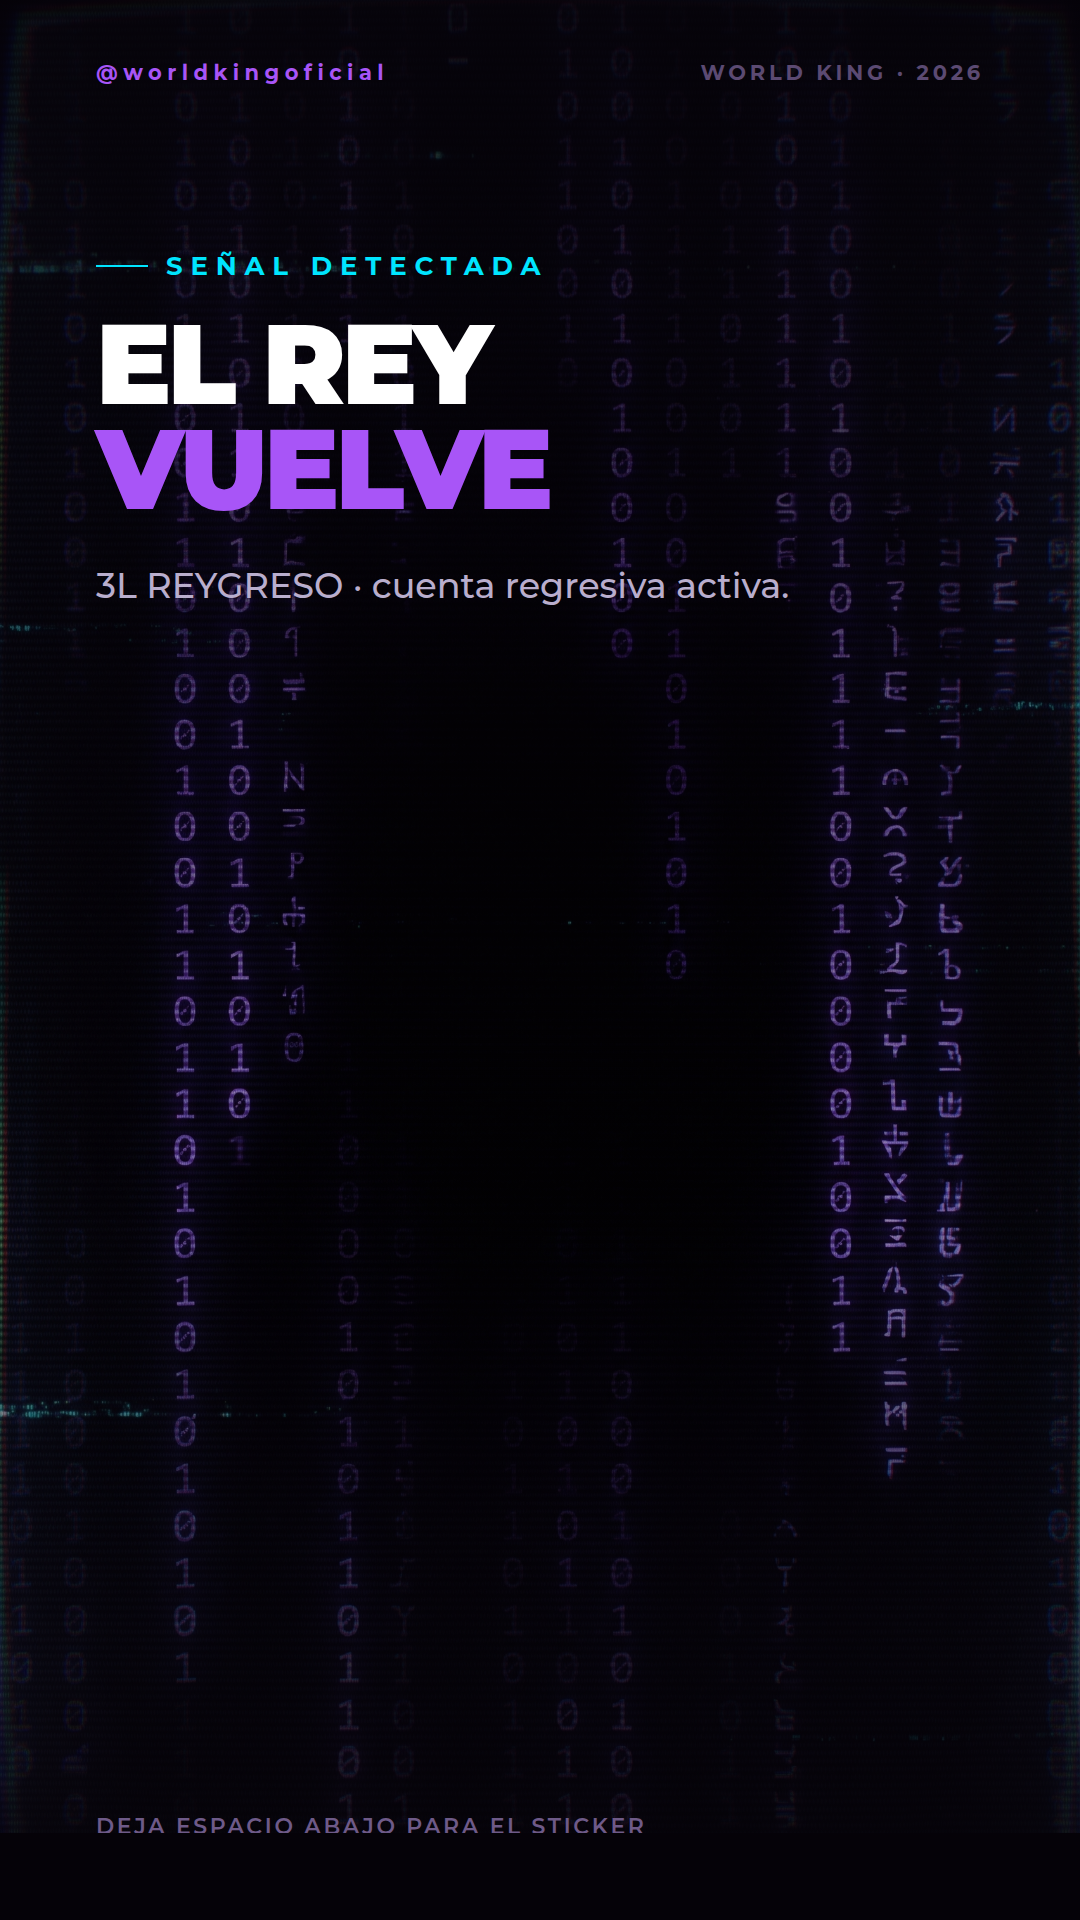
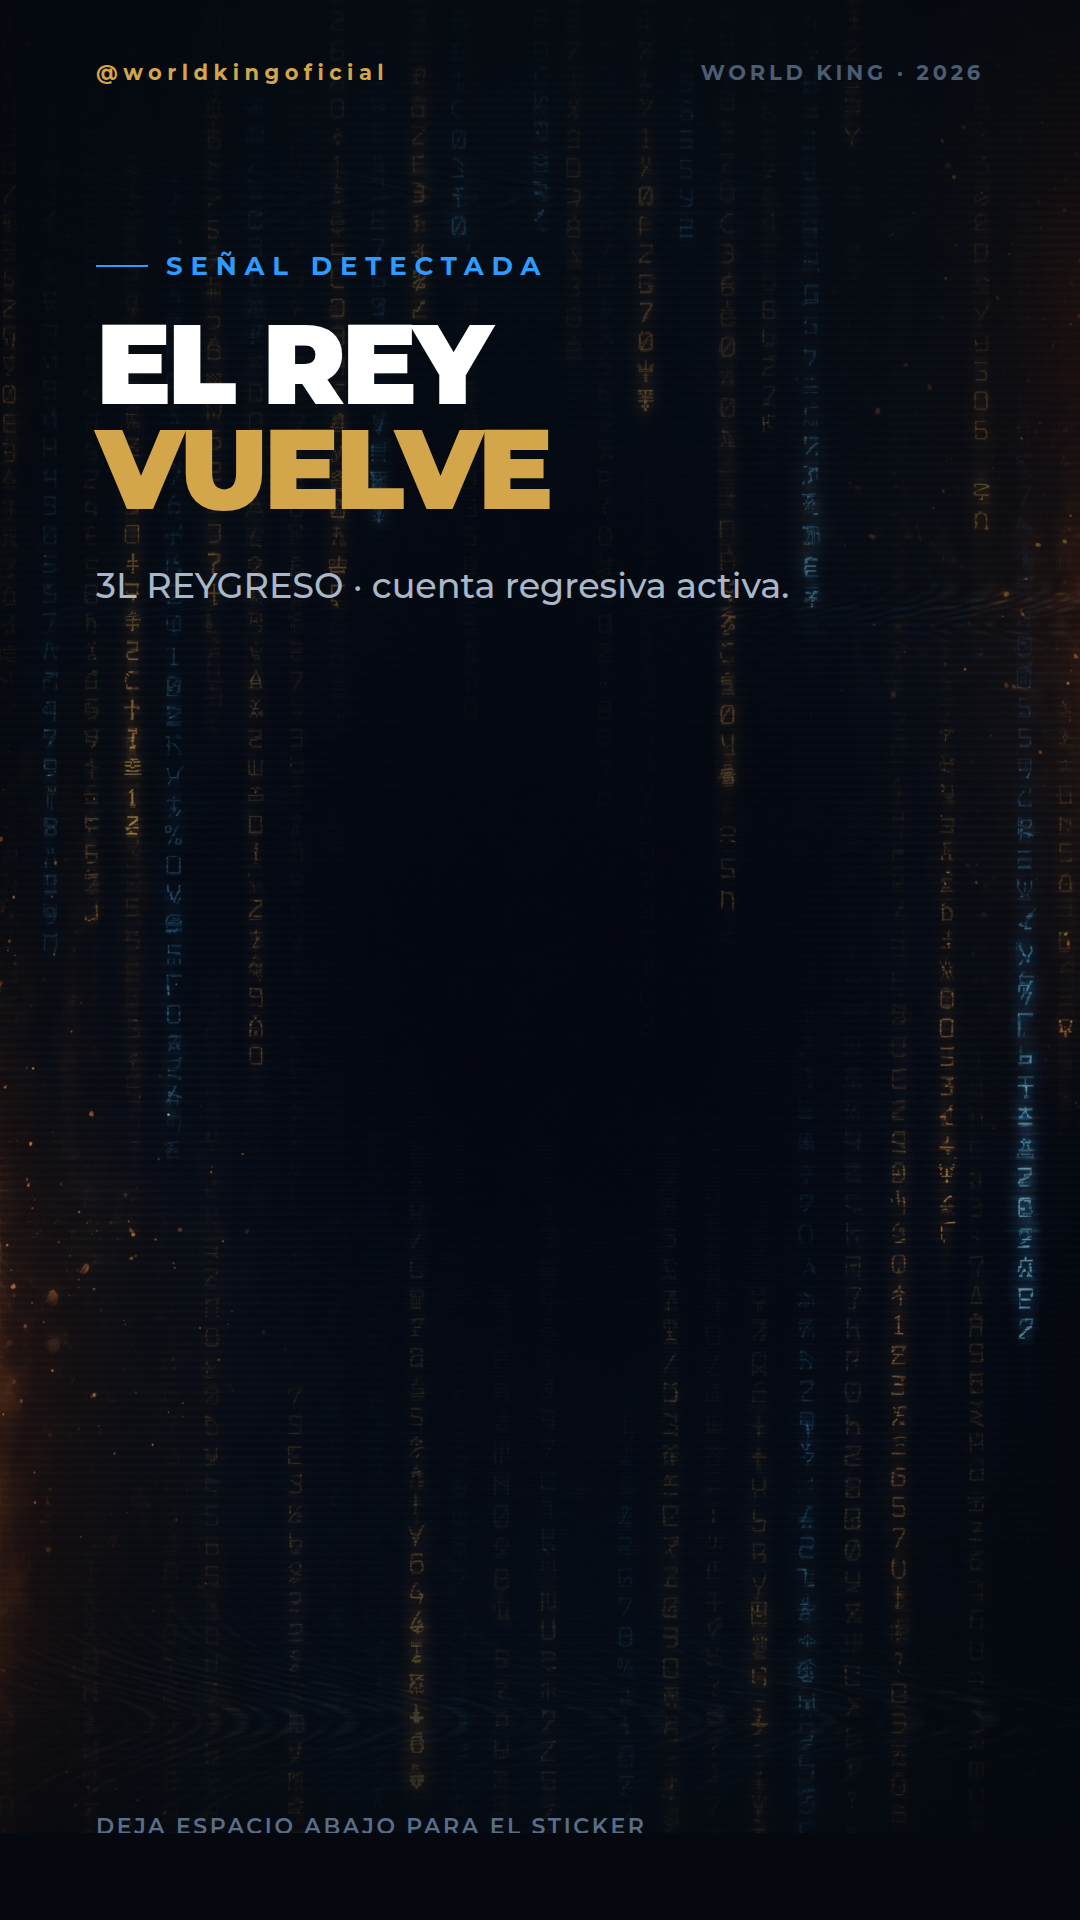
Realinea las gráficas de World King con su identidad visual real
Las referencias oficiales del artista muestran un sistema muy distinto
al que se había supuesto: no es un astronauta cyberpunk, es un REY
espacial. Corona de puntas con forma de naves y LED azul, armadura
dorada barroca, capa negra, campo de asteroides y un planeta azul con
luces naranjas.

La paleta violeta/cian era una suposición y estaba equivocada. Se
reemplaza por la real, muestreada de las referencias: azul 210°,
naranja 15° y dorado.

Se regeneran las 5 piezas de Higgsfield con el concepto correcto y se
repinta la capa tipográfica. Se guardan las referencias del artista
para que las próximas piezas partan de material verificado.

diff --git a/produccion-contenido/clientes/world-king/graficas/build.js b/produccion-contenido/clientes/world-king/graficas/build.js
@@ -54,7 +54,7 @@ const piezas = [
     w: 1080, h: 1350,
     tipo: 'espectro',
     kicker: 'ESPECIFICACIÓN TÉCNICA',
-    titulo: 'SONIDOS<br><span class="cian">TR3E</span> DIMENSIONAL',
+    titulo: 'SONIDOS<br><span class="azul">TR3E</span> DIMENSIONAL',
     texto: 'La mezcla se mueve alrededor tuyo, no delante. Por eso hay que escucharlo con audífonos.',
     pie: `${FORMATO_AUDIO} · SEGUIMIENTO ESPACIAL`,
   },
@@ -73,7 +73,7 @@ const piezas = [
     w: 1080, h: 1350,
     tipo: 'terminal',
     kicker: 'REGISTRO VERIFICADO',
-    titulo: 'NO ES LA<br><span class="cian">PRIMERA VEZ</span>',
+    titulo: 'NO ES LA<br><span class="azul">PRIMERA VEZ</span>',
     filas: [
       ['FESTIVAL DE LAS CONDES · 2024', '+12.000'],
       ['SEMANA BARNECHEINA · 2019', '1º LUGAR'],
@@ -87,7 +87,7 @@ const piezas = [
     tipo: 'historia',
     imagen: 'historia-01-fondo-cuenta-regresiva.png',
     kicker: 'SEÑAL DETECTADA',
-    titulo: 'EL REY<br><span class="violeta">VUELVE</span>',
+    titulo: 'EL REY<br><span class="oro">VUELVE</span>',
     texto: `${EP} · cuenta regresiva activa.`,
     hueco: true,   // deja aire abajo para el sticker nativo de cuenta regresiva
     pie: 'DEJA ESPACIO ABAJO PARA EL STICKER',
@@ -128,19 +128,19 @@ const css = `
   /* fondo fotográfico generado con IA */
   .bg{position:absolute;inset:0;background-size:cover;background-position:center}
   .veil{position:absolute;inset:0}
-  .veil.top{background:linear-gradient(180deg,rgba(5,2,8,.92) 0%,rgba(5,2,8,.45) 42%,rgba(5,2,8,.30) 62%,rgba(5,2,8,.95) 100%)}
+  .veil.top{background:linear-gradient(180deg,rgba(5,9,15,.92) 0%,rgba(5,9,15,.45) 42%,rgba(5,9,15,.30) 62%,rgba(5,9,15,.95) 100%)}
 
   /* rejilla técnica de fondo */
   .grid{position:absolute;inset:0;opacity:.16;
-        background-image:linear-gradient(${C.violeta} 1px,transparent 1px),
-                         linear-gradient(90deg,${C.violeta} 1px,transparent 1px);
+        background-image:linear-gradient(${C.azul_led} 1px,transparent 1px),
+                         linear-gradient(90deg,${C.azul_led} 1px,transparent 1px);
         background-size:90px 90px}
   .glowtop{position:absolute;top:-30%;left:50%;transform:translateX(-50%);
            width:150%;height:70%;border-radius:50%;
-           background:radial-gradient(closest-side,${C.violeta}66,transparent 70%);filter:blur(20px)}
+           background:radial-gradient(closest-side,${C.azul_led}66,transparent 70%);filter:blur(20px)}
   .glowbot{position:absolute;bottom:-25%;left:50%;transform:translateX(-50%);
            width:130%;height:55%;border-radius:50%;
-           background:radial-gradient(closest-side,${C.cian}33,transparent 70%);filter:blur(20px)}
+           background:radial-gradient(closest-side,${C.naranja_brasa}33,transparent 70%);filter:blur(20px)}
 
   .wrap{position:absolute;inset:0;display:flex;flex-direction:column;
         justify-content:center;padding:0 96px;z-index:5}
@@ -148,57 +148,57 @@ const css = `
 
   .handle{position:absolute;top:60px;left:96px;right:96px;z-index:6;
           display:flex;justify-content:space-between;align-items:center;
-          font-size:21px;font-weight:700;letter-spacing:.26em;color:${C.violeta_claro}}
-  .handle .r{color:#5B4A72;letter-spacing:.18em}
+          font-size:21px;font-weight:700;letter-spacing:.26em;color:${C.dorado}}
+  .handle .r{color:#4A5D72;letter-spacing:.18em}
 
   .kicker{font-size:26px;font-weight:700;letter-spacing:.30em;text-transform:uppercase;
-          color:${C.cian};margin-bottom:30px;display:flex;align-items:center;gap:18px}
-  .kicker::before{content:'';width:52px;height:2px;background:${C.cian}}
+          color:${C.azul_led};margin-bottom:30px;display:flex;align-items:center;gap:18px}
+  .kicker::before{content:'';width:52px;height:2px;background:${C.azul_led}}
 
   h1{font-size:112px;font-weight:900;line-height:.94;letter-spacing:-.035em;text-transform:uppercase}
   h1.xl{font-size:150px}
   h1.mono{font-family:'Mont',ui-monospace,monospace;font-size:132px;letter-spacing:-.02em}
   h1.cita{font-size:78px;line-height:1.14;letter-spacing:-.02em;font-weight:800}
-  .cian{color:${C.cian}}
-  .violeta{color:${C.violeta_claro}}
+  .azul{color:${C.azul_led}}
+  .oro{color:${C.dorado}}
 
   p{font-size:35px;font-weight:500;line-height:1.45;color:${C.gris_texto};
     margin-top:38px;max-width:800px}
 
   .pie{position:absolute;bottom:78px;left:96px;right:96px;z-index:6;line-height:1.35;
-       font-size:22px;font-weight:700;letter-spacing:.22em;color:${C.violeta_claro};
+       font-size:22px;font-weight:700;letter-spacing:.22em;color:${C.dorado};
        text-transform:uppercase}
-  .pie.pendiente{color:#6E5A88;font-weight:600;letter-spacing:.12em}
+  .pie.pendiente{color:#5A6E88;font-weight:600;letter-spacing:.12em}
 
   /* --- espectro de audio 3D --- */
   .barras{display:flex;align-items:flex-end;gap:11px;height:300px;margin-top:64px}
   .barras i{flex:1;border-radius:4px 4px 0 0;
-            background:linear-gradient(180deg,${C.cian},${C.violeta})}
+            background:linear-gradient(180deg,${C.azul_led},${C.naranja_brasa})}
   .orbita{position:absolute;top:50%;left:50%;transform:translate(-50%,-50%);
-          width:760px;height:760px;border:2px solid ${C.violeta}44;border-radius:50%}
-  .orbita.b{width:540px;height:540px;border-color:${C.cian}44}
-  .orbita.c{width:320px;height:320px;border-color:${C.violeta}66}
+          width:760px;height:760px;border:2px solid ${C.azul_led}44;border-radius:50%}
+  .orbita.b{width:540px;height:540px;border-color:${C.dorado}55}
+  .orbita.c{width:320px;height:320px;border-color:${C.azul_led}66}
 
   /* --- coordenadas --- */
-  .coordbox{border:2px solid ${C.violeta}55;background:${C.negro_panel}CC;
+  .coordbox{border:2px solid ${C.azul_led}55;background:${C.negro_panel}CC;
             padding:44px 48px;margin-bottom:52px;align-self:flex-start}
-  .coordbox .l{font-size:24px;letter-spacing:.24em;color:#7C6A94;font-weight:600;margin-bottom:12px}
-  .coordbox .v{font-size:44px;letter-spacing:.06em;font-weight:800;color:${C.cian}}
+  .coordbox .l{font-size:24px;letter-spacing:.24em;color:#7A8CA4;font-weight:600;margin-bottom:12px}
+  .coordbox .v{font-size:44px;letter-spacing:.06em;font-weight:800;color:${C.azul_led}}
   .coordbox .v+.l{margin-top:30px}
 
   /* --- terminal de datos --- */
-  .tabla{margin-top:60px;border-top:2px solid ${C.violeta}55}
+  .tabla{margin-top:60px;border-top:2px solid ${C.azul_led}55}
   .tabla .fila{display:flex;justify-content:space-between;align-items:baseline;
-               padding:32px 4px;border-bottom:1px solid ${C.violeta}33}
+               padding:32px 4px;border-bottom:1px solid ${C.azul_led}33}
   .tabla .k{font-size:29px;font-weight:600;letter-spacing:.14em;color:${C.gris_texto}}
-  .tabla .v{font-size:52px;font-weight:900;color:${C.cian};letter-spacing:-.01em}
+  .tabla .v{font-size:52px;font-weight:900;color:${C.azul_led};letter-spacing:-.01em}
 
   /* --- alerta --- */
   .scan{position:absolute;inset:0;opacity:.30;
-        background:repeating-linear-gradient(180deg,${C.violeta}22 0 2px,transparent 2px 7px)}
-  .marco{position:absolute;inset:44px;border:3px solid ${C.violeta};opacity:.75}
+        background:repeating-linear-gradient(180deg,${C.azul_led}22 0 2px,transparent 2px 7px)}
+  .marco{position:absolute;inset:44px;border:3px solid ${C.azul_led};opacity:.75}
   .marco::before,.marco::after{content:'';position:absolute;width:60px;height:60px;
-        border:5px solid ${C.cian}}
+        border:5px solid ${C.azul_led}}
   .marco::before{top:-5px;left:-5px;border-right:0;border-bottom:0}
   .marco::after{bottom:-5px;right:-5px;border-left:0;border-top:0}
 
